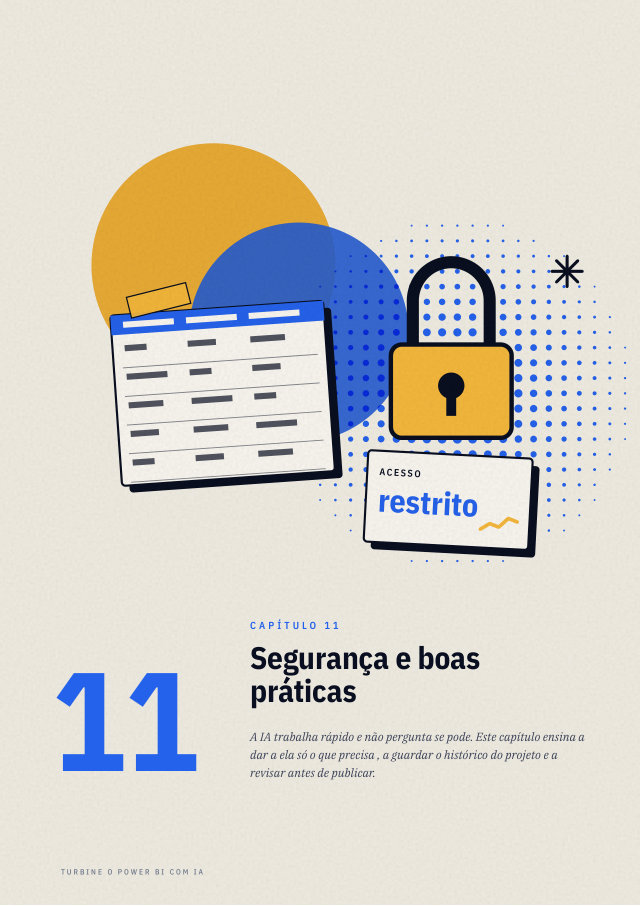
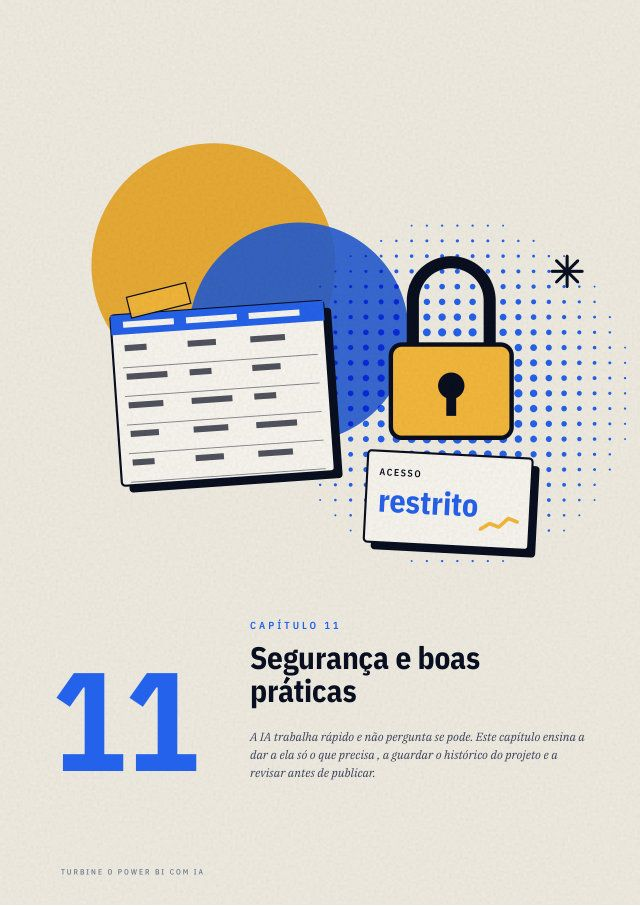
Desempenho: capa reduzida, imagens recomprimidas, font-display swap e preload de fontes

diff --git a/turbineopowerbicomia/index.html b/turbineopowerbicomia/index.html
@@ -17,13 +17,15 @@
 <link rel="icon" href="favicon.ico" sizes="any">
 <link rel="icon" type="image/png" href="favicon.png">
 <link rel="apple-touch-icon" href="apple-touch-icon.png">
+<link rel="preload" href="fontes/IBMPlexSansCondensed-Bold.ttf" as="font" type="font/ttf" crossorigin>
+<link rel="preload" href="fontes/IBMPlexSerif-Regular.ttf" as="font" type="font/ttf" crossorigin>
 <style>
-@font-face { font-family: 'PlexSerif'; src: url('fontes/IBMPlexSerif-Regular.ttf'); font-weight: 400; font-style: normal; }
-@font-face { font-family: 'PlexSerif'; src: url('fontes/IBMPlexSerif-Italic.ttf'); font-weight: 400; font-style: italic; }
-@font-face { font-family: 'PlexSerif'; src: url('fontes/IBMPlexSerif-SemiBold.ttf'); font-weight: 600; font-style: normal; }
-@font-face { font-family: 'PlexSans'; src: url('fontes/IBMPlexSans-Var.ttf'); font-weight: 100 700; }
-@font-face { font-family: 'PlexCond'; src: url('fontes/IBMPlexSansCondensed-SemiBold.ttf'); font-weight: 600; }
-@font-face { font-family: 'PlexCond'; src: url('fontes/IBMPlexSansCondensed-Bold.ttf'); font-weight: 700; }
+@font-face { font-family: 'PlexSerif'; font-display: swap; src: url('fontes/IBMPlexSerif-Regular.ttf'); font-weight: 400; font-style: normal; }
+@font-face { font-family: 'PlexSerif'; font-display: swap; src: url('fontes/IBMPlexSerif-Italic.ttf'); font-weight: 400; font-style: italic; }
+@font-face { font-family: 'PlexSerif'; font-display: swap; src: url('fontes/IBMPlexSerif-SemiBold.ttf'); font-weight: 600; font-style: normal; }
+@font-face { font-family: 'PlexSans'; font-display: swap; src: url('fontes/IBMPlexSans-Var.ttf'); font-weight: 100 700; }
+@font-face { font-family: 'PlexCond'; font-display: swap; src: url('fontes/IBMPlexSansCondensed-SemiBold.ttf'); font-weight: 600; }
+@font-face { font-family: 'PlexCond'; font-display: swap; src: url('fontes/IBMPlexSansCondensed-Bold.ttf'); font-weight: 700; }
 :root { --tinta:#141922; --azul:#2563EB; --ambar:#F5B83D; --papel:#F2EEE4; --cartao:#FBF8F1; --cinza:#6B7488; --marinho:#0A1020; }
 * { box-sizing: border-box; }
 html { scroll-behavior: smooth; }

diff --git a/turbineopowerbicomia/obrigado/index.html b/turbineopowerbicomia/obrigado/index.html
@@ -9,11 +9,11 @@
 <link rel="icon" type="image/png" href="../favicon.png">
 <link rel="apple-touch-icon" href="../apple-touch-icon.png">
 <style>
-@font-face { font-family: 'PlexSerif'; src: url('../fontes/IBMPlexSerif-Regular.ttf'); font-weight: 400; font-style: normal; }
-@font-face { font-family: 'PlexSerif'; src: url('../fontes/IBMPlexSerif-Italic.ttf'); font-weight: 400; font-style: italic; }
-@font-face { font-family: 'PlexSans'; src: url('../fontes/IBMPlexSans-Var.ttf'); font-weight: 100 700; }
-@font-face { font-family: 'PlexCond'; src: url('../fontes/IBMPlexSansCondensed-SemiBold.ttf'); font-weight: 600; }
-@font-face { font-family: 'PlexCond'; src: url('../fontes/IBMPlexSansCondensed-Bold.ttf'); font-weight: 700; }
+@font-face { font-family: 'PlexSerif'; font-display: swap; src: url('../fontes/IBMPlexSerif-Regular.ttf'); font-weight: 400; font-style: normal; }
+@font-face { font-family: 'PlexSerif'; font-display: swap; src: url('../fontes/IBMPlexSerif-Italic.ttf'); font-weight: 400; font-style: italic; }
+@font-face { font-family: 'PlexSans'; font-display: swap; src: url('../fontes/IBMPlexSans-Var.ttf'); font-weight: 100 700; }
+@font-face { font-family: 'PlexCond'; font-display: swap; src: url('../fontes/IBMPlexSansCondensed-SemiBold.ttf'); font-weight: 600; }
+@font-face { font-family: 'PlexCond'; font-display: swap; src: url('../fontes/IBMPlexSansCondensed-Bold.ttf'); font-weight: 700; }
 :root { --tinta:#141922; --azul:#2563EB; --ambar:#F5B83D; --papel:#F2EEE4; --cartao:#FBF8F1; --cinza:#6B7488; --marinho:#0A1020; }
 * { box-sizing: border-box; }
 body { margin: 0; background: var(--papel); color: var(--tinta); font: 400 18px/1.6 'PlexSerif', Georgia, serif; }
